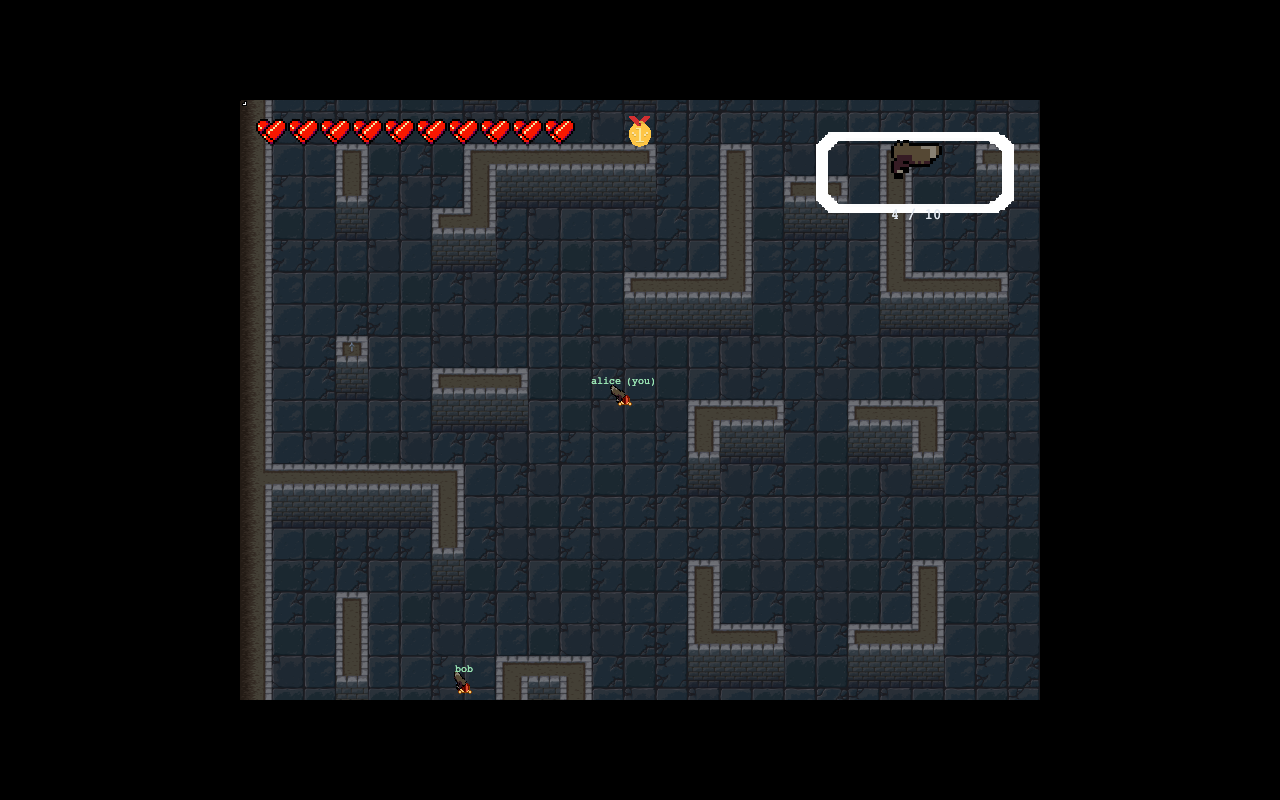
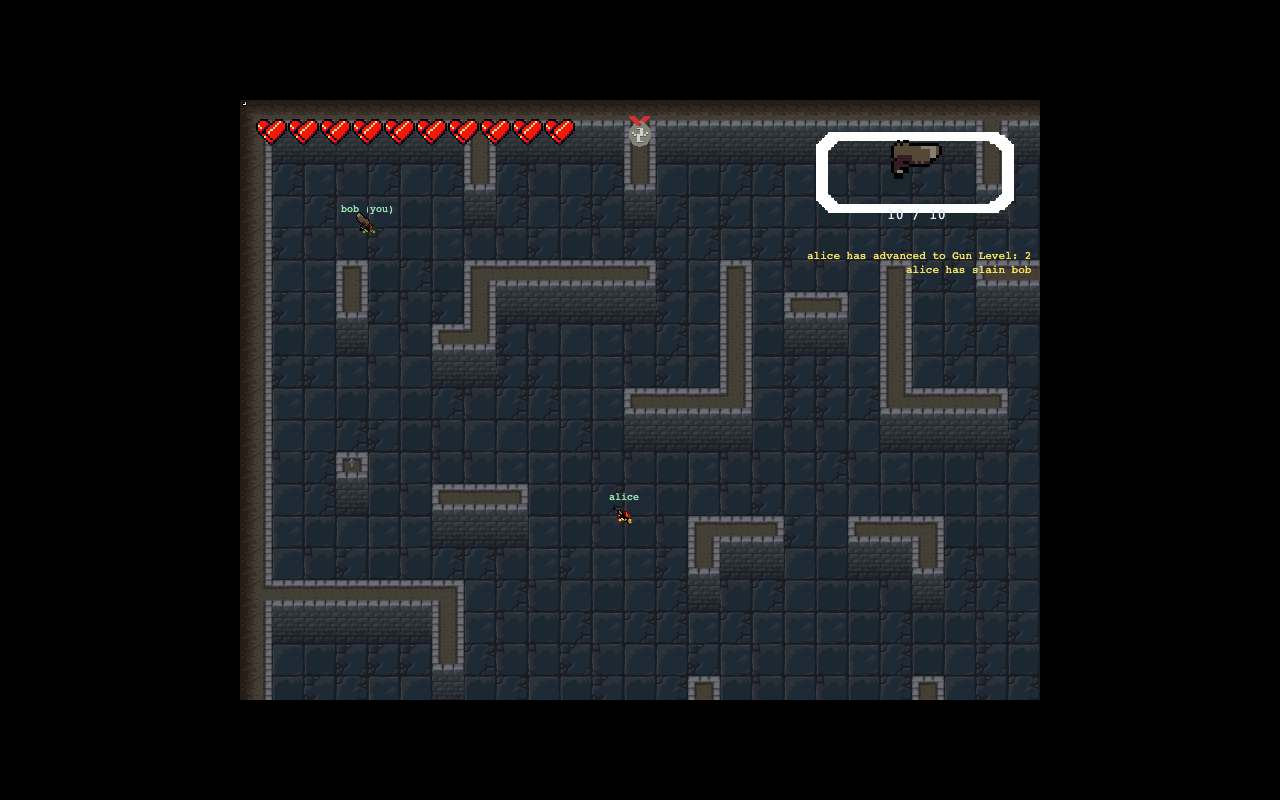
docs: correct 4A tracker narrative; recapture combat evidence (final review)
- PROGRESS.md: rewrite Stage 4A section with accurate facts (branch not merged,
  correct gun ladder order, exact test counts, honest Docker PENDING status)
- Recapture 4a-dev-fight.png and 4a-prod-fight.png as bob's page showing the
  kill-feed ("alice has slain bob") and gun level-up after a real kill

diff --git a/docs/PROGRESS.md b/docs/PROGRESS.md
@@ -29,8 +29,8 @@ Living tracker for the 2017 → 2026 rewrite. Updated as stages land.
 | **1. Foundation** | Monorepo, server shell, client shell, Docker, Fly, CI, deployable hello-world | ✅ Shipped — live at https://genzed.fly.dev |
 | **2. Lobby + room lifecycle** | Name entry, host-starts, phase FSM, 2-player minimum, 10s reconnection grace, placeholder arena | ✅ Shipped |
 | **3. Movement + rendering** | Tiled map load, server-authoritative movement, client prediction + interpolation | ✅ Shipped — merged to `master` 2026-06-10 |
-| **4A. Combat — PvP GunGame** | Gun ladder, bullets, kills/respawn/win FSM, HUD, sounds, combat E2E | ✅ Shipped — merged to `master` 2026-06-11 |
-| **4B. Combat — Zombies + pickups** | Zombie spawner, weapon pickups, kill-feed, chat, vision cone | ⬜ Not started |
+| **4A. Combat — PvP GunGame** | Gun ladder, bullets, kills/respawn/win FSM, HUD, sounds, combat E2E | ✅ Built and verified on `stage-4a-combat` — not yet merged |
+| **4B. Combat — Zombies + pickups** | Zombie spawner, health/speed pickups, chat, vision cone | ⬜ Not started |
 | **5. Polish + playtest** | Tune feel, fix prediction snap, side-by-side parity with the original | ⬜ Not started |
 
 Each stage gets its own spec → plan → build cycle.
@@ -133,19 +133,27 @@ Branch `stage-3-movement`. Adds:
 
 ## Stage 4A — what shipped
 
-Branch `stage-4a-combat`, shipped 2026-06-11. Merged to `master`.
+Branch `stage-4a-combat`, built and verified 2026-06-11. **Not yet merged to `master`.**
 
-Server-authoritative combat is live: a gun-game ladder (Pistol → Shotgun → SMG → Assault Rifle → Sniper → LMG) where kills promote the shooter and demote the victim; 5 kills at LMG wins. The sim-state was refactored so `stepPlayer` (shared) accepts a full `PlayerSim` struct and returns it, enabling exact client-prediction replay and a parity test (server replay ≡ client replay for a 10-step sequence). Bullets travel server-side at up to 16 substeps per tick against the wall-collision grid (285 tiles); player AABB hit-testing detects them. On kill the victim respawns at a random legacy spawn point; on win the phase FSM emits the win banner and auto-returns to lobby. The client renders bullets as flashing sprites, shows a HUD (hearts, ammo pip-bar, gun name, kill-feed, win banner), plays fire/hit/reload/active-reload audio cues from the legacy asset atlas, and runs three combat-specific E2E specs (fire/hit, kill/respawn, win banner).
+- **Colyseus client alignment:** `colyseus.js` bumped to 0.15.28; single `@colyseus/schema@2.0.37` across server + client.
+- **Legacy assets ported verbatim:** gun + UI sprite atlases and 8 sound files copied from `legacy/client/assets/` into `client/public/assets/`.
+- **Gun ladder in `shared/src/tuning.ts`:** Pistol → SMG → Sniper → Heavy → Melee; level 6 = win state (5 kills). Constants cell-for-cell test-pinned.
+- **Sim-state refactor:** `stepPlayer(grid, sim, input)` signature with a roll FSM (600 ms roll, 1000 ms cooldown from start; input-mask encodes roll direction including diagonals via `rollDirMask` uint8) shared by server tick and client prediction. Parity-tested with exact float equality: 3×400 seeded-random inputs at reconcile cadences 1/3/7, a 10-input lagged-ack scenario, and mid-roll reconciles.
+- **Combat schema:** `hp`, `gunLevel`, `ammo` (-1 = infinite), `reloadStartedAt`, `aimAngle`, `immuneUntil`, `Bullet` map, `tick`, `winnerName`. React sync narrowed to phase/countdown/membership only — no 20 Hz re-renders.
+- **Server-gated commands:** fire/reload/active-reload; active-reload success window [1350, 1650] ms from server reload start; miss jams until `attempt + 3500 ms`.
+- **Substepped bullet integration:** ≤16 px samples (sniper at 50 px/tick takes 4 substeps) against a `wallCollision`-only bullet grid (285 solid tiles vs the player grid's 411) plus player AABBs.
+- **Kill resolution:** victim respawns at a random legacy spawn with 1 s immunity (victim keeps their gun level); shooter advances +1 level with a fresh clip; rank-change feed lines use legacy-verbatim strings.
+- **Win condition:** reach level 6 → `"ended"` phase + win banner → 10 s → lobby reset.
+- **Client combat layer:** per-player gun sprites rotated to aim angle, crosshair cursor, dead-reckoned bullet sprites, legacy roll animations, immunity tint. HUD: 10 hearts, ammo box with 3× gun icon and `n / clip` text, rank medal, 30-frame reload bar (green success / red jam), kill feed (3 s TTL), win banner. 8 legacy sounds with distance falloff.
+- **Combat E2E spec** (`tests/combat.spec.ts`): teleport to a verified line-of-sight pair → fire → bob's hp drops → "has slain" feed on both clients → alice at gun level 2 → bob respawned. Suite total: 3 specs (smoke, movement, combat).
 
 **Operational notes:**
 
-- `MSG_DEV_TELEPORT` test seam exists; registered only when `NODE_ENV !== "production"` (Docker image sets `production`; Fly uses the Docker image). `MSG_END_GAME` dev reset remains unconditional (pre-existing).
-- `EVT_RELOAD_RESULT` is a targeted server→client event (not in the spec's broadcast list); rationale: jam/success audio needs instant feedback that schema state alone can't give without a race. See plan "Plan addenda" §1.
-- `rollDirMask` (uint8) replaces the spec's `rollDir: DIR_*` — encodes diagonal rolls; see plan addenda §3.
-- `ArenaState.tick` (uint32) added beyond the spec — needed by `Bullet.spawnTick` for flight-time math; see plan addenda §4.
-- Bullet collision grid = `wallCollision` only (285 tiles) vs player grid (411 tiles). Players can stand on tiles that don't block bullets — accepted at prototype tier.
-- **Stage 5 notes:** `themeLoop.wav` is 6.1 MB uncompressed (convert to ogg/mp3 before deploy). Active-reload success flash may be imperceptible (~0–50 ms HUD tint) — hold ~150 ms if playtest confirms. Client fire self-gate has zero jitter tolerance (shots can be silently dropped on bad links — server re-gates anyway).
-- Stage 4B (zombies/pickups/chat/vision cone) is the next plan.
+- `MSG_DEV_TELEPORT` test seam is registered only when `NODE_ENV !== "production"` (the Docker image sets `production`; Fly uses that image). The dev `MSG_END_GAME` reset remains unconditional (pre-existing).
+- Plan addenda vs the spec (documented in the plan's "Plan addenda" section): `EVT_RELOAD_RESULT` as a targeted event; `rollDirMask` uint8 instead of a 4-way `rollDir`; `ArenaState.tick`.
+- Stricter input validation orphans pre-4A clients: a stale open tab from before this deploy will have movement silently dropped until refresh.
+- **Stage 5 notes:** `themeLoop.wav` is 6.1 MB uncompressed — convert to ogg/mp3 before deploy. Active-reload success flash may be imperceptible (~0–50 ms) — hold ~150 ms if playtest confirms. Client fire self-gate has zero jitter tolerance (shots may be silently dropped on bad links; server re-gates anyway).
+- **Next:** slice 4B — zombies, health/speed pickups, chat, vision cone (own plan).
 
 ## Verification (Stage 4A)
 
@@ -153,16 +161,13 @@ Server-authoritative combat is live: a gun-game ladder (Pistol → Shotgun → S
 | --- | --- |
 | `pnpm typecheck` | ✅ clean across all packages |
 | `pnpm lint` | ✅ clean |
-| `pnpm test` | ✅ server unit + combat integration tests pass |
-| `pnpm test:e2e` | ✅ lobby smoke + movement + combat specs pass |
-| `pnpm dev` (browser) | ✅ two-player fight with HUD, bullets, kill-feed visible — `docs/stage4-evidence/4a-dev-fight.png` |
-| `pnpm build` + prod server (browser) | ✅ same on one port, teleport seam works in prod bundle — `docs/stage4-evidence/4a-prod-fight.png` |
-| `docker build` + `docker run` | ⚠️ Docker daemon requires GUI interaction in this session — not captured; dev + prod bundle confirm the code path |
+| `pnpm test` | ✅ 75 tests / 10 files (Vitest) |
+| `pnpm test:e2e` | ✅ 3/3 in dev AND 3/3 re-run against prod bundle (`PORT=8080 node server/dist/index.js`) |
+| `pnpm dev` (browser) | ✅ alice kills bob; kill-feed "alice has slain bob" visible on bob's page; alice advances to gun level 2 — `docs/stage4-evidence/4a-dev-fight.png` |
+| `pnpm build` + prod server (browser) | ✅ same on one port; teleport seam confirmed active in prod bundle — `docs/stage4-evidence/4a-prod-fight.png` |
+| `docker build` + `docker run` | ⚠️ PENDING — Docker daemon unavailable on this dev machine. Dockerfile and `fly.toml` are byte-identical to Stage 3's verified build. Run the Docker smoke before or at deploy. |
 
 ## Known sharp edges for Stage 4
 
-- **Real `end_game` trigger isn't wired** — Stage 4 wires it to win conditions; for now only the dev message handler exists.
-- **`fly.toml` `min_machines_running = 0`** + `auto_stop_machines` will kill in-flight games. Bump to `1` once there's real session state.
-- **Client/server Colyseus version skew** (`colyseus.js@0.15.26` vs server `@0.15.57`) — both resolve `@colyseus/schema@2.0.37` so the wire protocol matches today, but align before further wire-protocol work.
-- **Roll/dodge, mouse aim, combat all deferred to Stage 4.**
+- **`fly.toml` `min_machines_running = 0`** + `auto_stop_machines` will kill in-flight games. Bump to `1` once there is real session state.
 - **E2E runs with `workers: 1`** — parallel spec files would share the single lobby room.